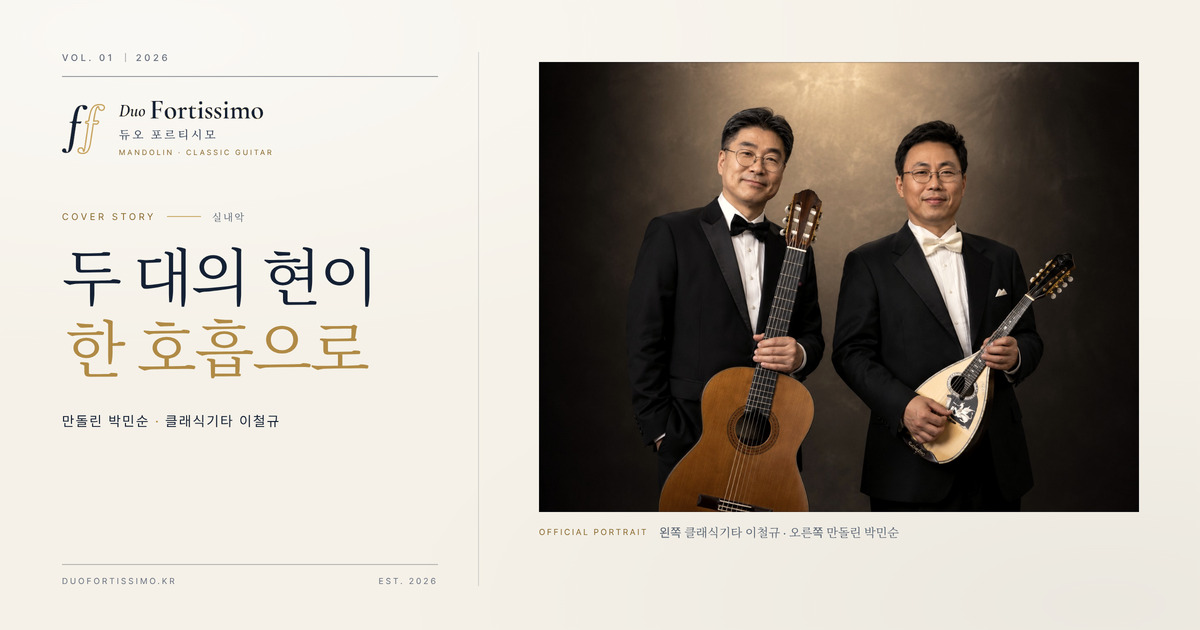
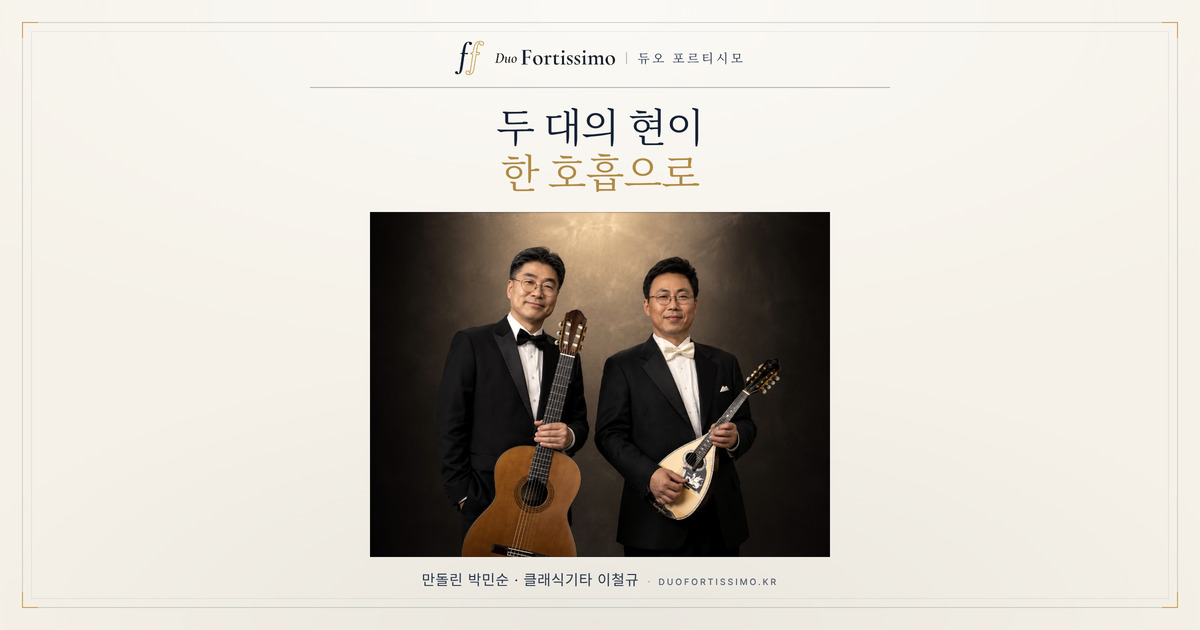
공유 썸네일을 세로 타이틀 지면으로 다시 짓고 og-image-v3.jpg로 교체
- 1200×630 종이 위 정중앙 580×580 안전 영역 안에 ff 마크·이름, 두 줄 타이틀,
  4:3 무크롭 공식 투샷, 만돌린 박민순·클래식기타 이철규·DUOFORTISSIMO.KR 캡션을 세로로 배치
- 페이스북 모바일 1:1 중앙 크롭에서도 핵심 요소가 잘리지 않음(측정 검증)
- og:image·twitter:image를 /og-image-v3.jpg로 변경, og-image-v2.jpg·assets/og-image.jpg는 같은 지면으로 덮어씀

diff --git a/app/index.html b/app/index.html
@@ -15,7 +15,7 @@
     <meta property="og:title" content="Duo Fortissimo | 만돌린과 클래식기타 듀엣" />
     <meta property="og:description" content="만돌린 박민순, 클래식기타 이철규. 두 대의 현으로 만드는 실내악." />
     <meta property="og:url" content="https://duofortissimo.kr/" />
-    <meta property="og:image" content="https://duofortissimo.kr/og-image-v2.jpg" />
+    <meta property="og:image" content="https://duofortissimo.kr/og-image-v3.jpg" />
     <meta property="og:image:type" content="image/jpeg" />
     <meta property="og:image:width" content="1200" />
     <meta property="og:image:height" content="630" />
@@ -24,7 +24,7 @@
     <meta name="twitter:card" content="summary_large_image" />
     <meta name="twitter:title" content="Duo Fortissimo | 만돌린과 클래식기타 듀엣" />
     <meta name="twitter:description" content="만돌린 박민순, 클래식기타 이철규. 두 대의 현으로 만드는 실내악." />
-    <meta name="twitter:image" content="https://duofortissimo.kr/og-image-v2.jpg" />
+    <meta name="twitter:image" content="https://duofortissimo.kr/og-image-v3.jpg" />
     <meta name="twitter:image:alt" content="듀오 포르티시모 로고와 만돌린 박민순·클래식기타 이철규의 공식 포트레이트" />
     <link rel="icon" type="image/png" sizes="32x32" href="/favicon-32.png" />
     <link rel="icon" type="image/png" sizes="64x64" href="/favicon-64.png" />

diff --git a/docs/index.html b/docs/index.html
@@ -15,7 +15,7 @@
     <meta property="og:title" content="Duo Fortissimo | 만돌린과 클래식기타 듀엣" />
     <meta property="og:description" content="만돌린 박민순, 클래식기타 이철규. 두 대의 현으로 만드는 실내악." />
     <meta property="og:url" content="https://duofortissimo.kr/" />
-    <meta property="og:image" content="https://duofortissimo.kr/og-image-v2.jpg" />
+    <meta property="og:image" content="https://duofortissimo.kr/og-image-v3.jpg" />
     <meta property="og:image:type" content="image/jpeg" />
     <meta property="og:image:width" content="1200" />
     <meta property="og:image:height" content="630" />
@@ -24,7 +24,7 @@
     <meta name="twitter:card" content="summary_large_image" />
     <meta name="twitter:title" content="Duo Fortissimo | 만돌린과 클래식기타 듀엣" />
     <meta name="twitter:description" content="만돌린 박민순, 클래식기타 이철규. 두 대의 현으로 만드는 실내악." />
-    <meta name="twitter:image" content="https://duofortissimo.kr/og-image-v2.jpg" />
+    <meta name="twitter:image" content="https://duofortissimo.kr/og-image-v3.jpg" />
     <meta name="twitter:image:alt" content="듀오 포르티시모 로고와 만돌린 박민순·클래식기타 이철규의 공식 포트레이트" />
     <link rel="icon" type="image/png" sizes="32x32" href="/favicon-32.png" />
     <link rel="icon" type="image/png" sizes="64x64" href="/favicon-64.png" />

diff --git a/index.html b/index.html
@@ -15,7 +15,7 @@
     <meta property="og:title" content="Duo Fortissimo | 만돌린과 클래식기타 듀엣" />
     <meta property="og:description" content="만돌린 박민순, 클래식기타 이철규. 두 대의 현으로 만드는 실내악." />
     <meta property="og:url" content="https://duofortissimo.kr/" />
-    <meta property="og:image" content="https://duofortissimo.kr/og-image-v2.jpg" />
+    <meta property="og:image" content="https://duofortissimo.kr/og-image-v3.jpg" />
     <meta property="og:image:type" content="image/jpeg" />
     <meta property="og:image:width" content="1200" />
     <meta property="og:image:height" content="630" />
@@ -24,7 +24,7 @@
     <meta name="twitter:card" content="summary_large_image" />
     <meta name="twitter:title" content="Duo Fortissimo | 만돌린과 클래식기타 듀엣" />
     <meta name="twitter:description" content="만돌린 박민순, 클래식기타 이철규. 두 대의 현으로 만드는 실내악." />
-    <meta name="twitter:image" content="https://duofortissimo.kr/og-image-v2.jpg" />
+    <meta name="twitter:image" content="https://duofortissimo.kr/og-image-v3.jpg" />
     <meta name="twitter:image:alt" content="듀오 포르티시모 로고와 만돌린 박민순·클래식기타 이철규의 공식 포트레이트" />
     <link rel="icon" type="image/png" sizes="32x32" href="/favicon-32.png" />
     <link rel="icon" type="image/png" sizes="64x64" href="/favicon-64.png" />

diff --git a/README.md b/README.md
@@ -76,7 +76,8 @@ app/
       logo-mark.png       ff 심볼 (투명 PNG, 로고 원본에서 추출)
       logo-wordmark.png   Duo Fortissimo 워드마크 (투명 PNG)
       logo-lockup.png     심볼 + 워드마크 + 한글 + MANDOLIN·GUITAR
-      og-image-v2.jpg     공유 미리보기 1200×630 (og:image·twitter:image, 저장소 루트 /og-image-v2.jpg)
+      og-image-v3.jpg     공유 미리보기 1200×630 (og:image·twitter:image, 저장소 루트 /og-image-v3.jpg)
+      og-image-v2.jpg     이전 공유 미리보기 (v3로 덮어씀, 같은 1200×630)
       photos/             2026년 9월 2일 문경 공연 사진(웹용 WebP)
       yt-*.jpg            유튜브 영상 썸네일
     robots.txt  sitemap.xml  CNAME  favicon-*.png  apple-touch-icon.png
@@ -119,7 +120,7 @@ scripts/
 | `stage-*.webp` | 무대 사진 네 장 |
 
 원본은 구글 드라이브 `듀오 포르티시모` 폴더에 있습니다. 사진을 바꿀 때는 같은 비율로 잘라
-WebP로 저장하고 파일 이름을 유지하면 됩니다. 표지와 공유 미리보기(`og-image-v2.jpg`)는
+WebP로 저장하고 파일 이름을 유지하면 됩니다. 표지와 공유 미리보기(`og-image-v3.jpg`)는
 두 사람이 함께 나온 사진을 씁니다.
 
 ## 로컬에서 보기
